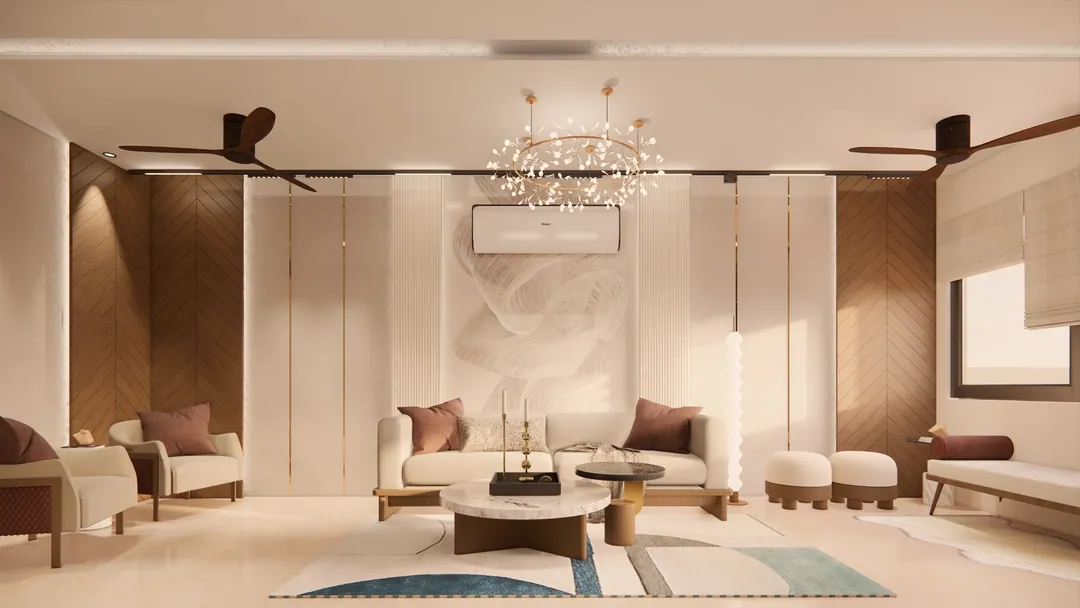
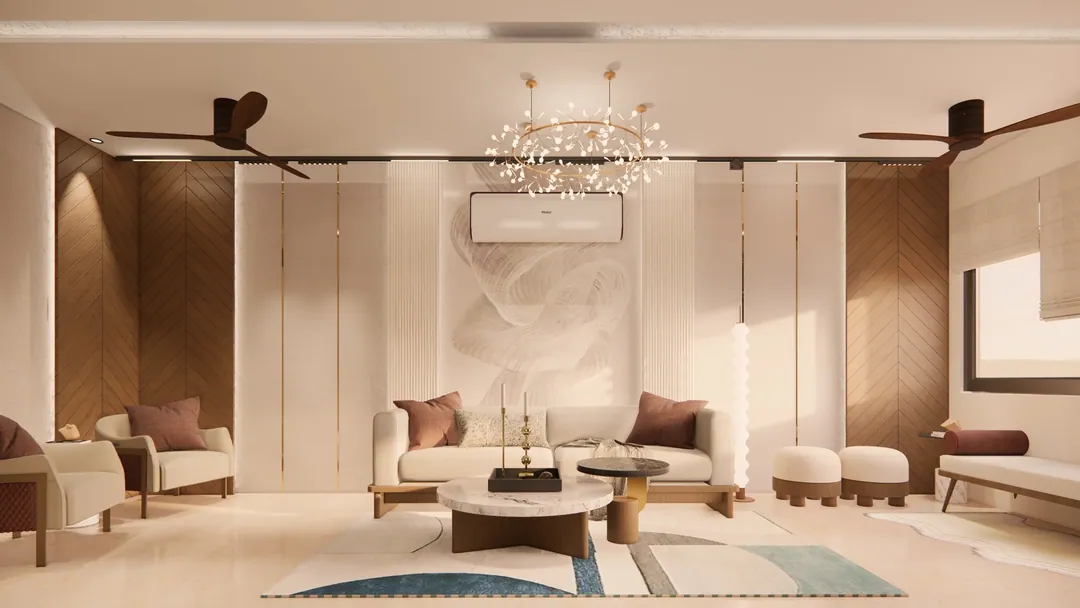
Before/after: fit the viewport and align the two images on the ceiling line
The after render is cropped at the top so its ceiling line sits at the
same height as the photograph's; the frame fits the screen with the
heading, and the crop is biased toward the ceiling so both the ceiling
and the seating stay in view.

diff --git a/src/components/sections/BeforeAfter/BeforeAfter.module.css b/src/components/sections/BeforeAfter/BeforeAfter.module.css
@@ -47,10 +47,9 @@
    drops below 400px on short laptops or grows past 860px on tall ones. */
 .frame {
   position: relative;
-  /* The frame keeps the photographs' own 16:9 shape so nothing is cropped
-     and the before and after line up edge to edge. */
-  height: auto;
-  aspect-ratio: 16 / 9;
+  /* Fits the viewport with the heading above it, so the whole section is seen
+     at once. The two photographs are pre-aligned on their ceiling line. */
+  height: clamp(420px, calc(100svh - var(--header-height) - 190px), 720px);
   overflow: hidden;
   background: var(--color-stone-100);
   user-select: none;
@@ -62,6 +61,7 @@
   pointer-events: none;
   user-select: none;
   -webkit-user-drag: none;
+  object-position: 50% 38%;
 }
 
 .before {
